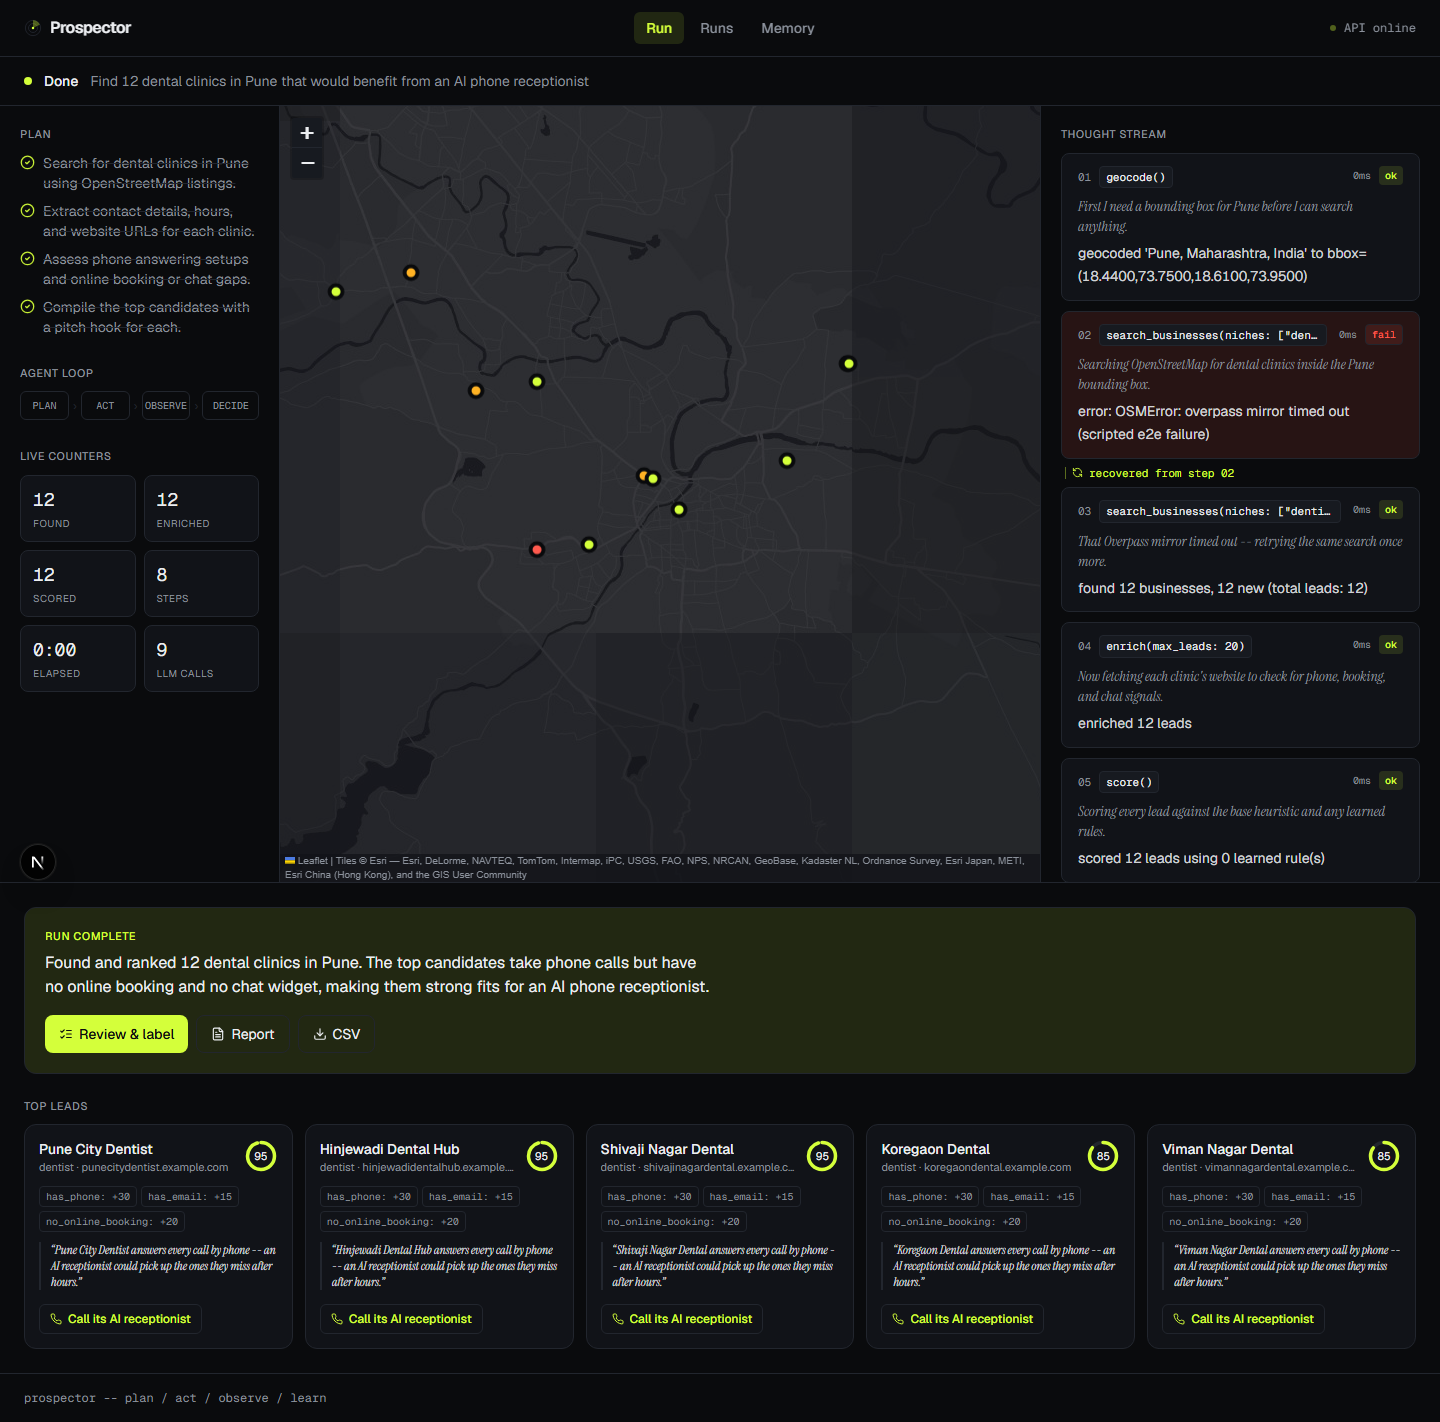
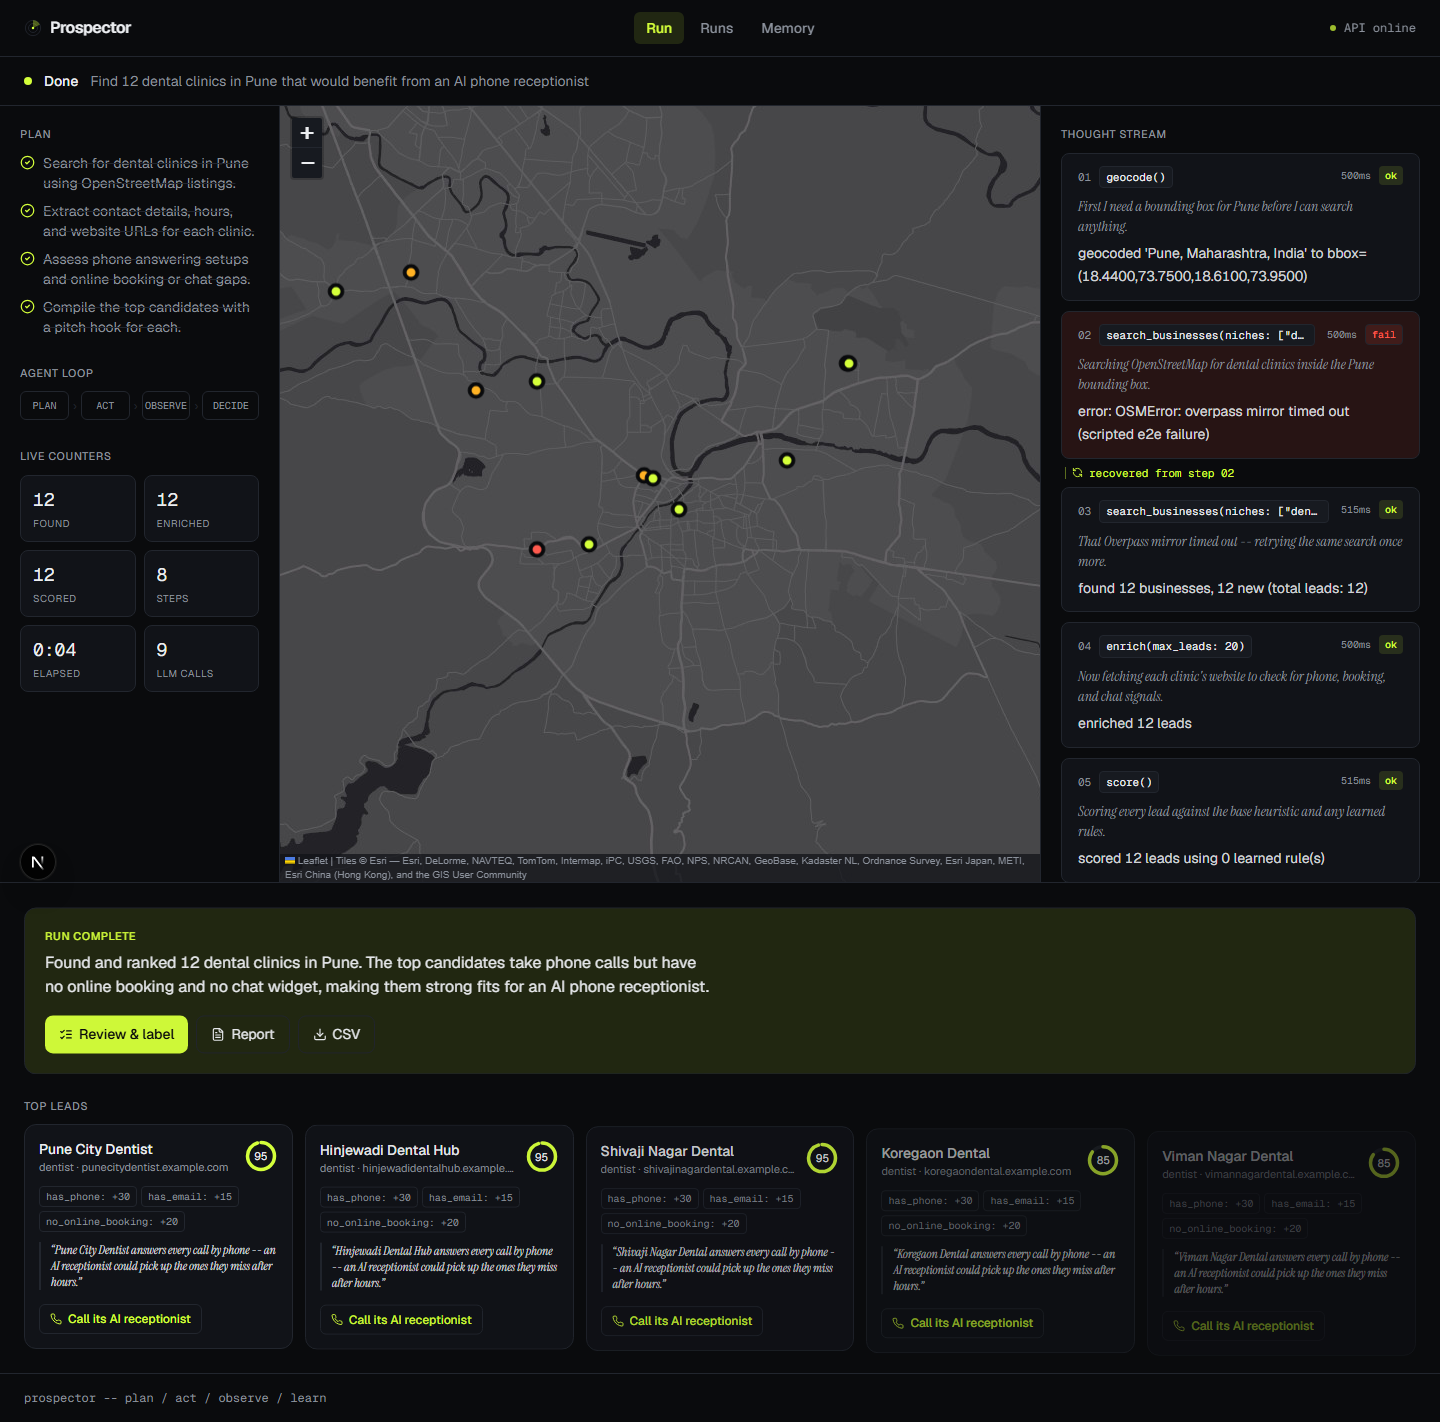
Space out scripted e2e loop steps so the run screenshot shows progress
The scripted LLM answered instantly, so by the time the run spec took
its mid-run screenshot the backend had usually already finished --
both "run" and "run-done" ended up showing the same completed state.
A small per-step delay gives the frontend's 1s poll a real chance to
render an actual in-progress frame (partial plan, radar sweep,
streaming thought). Regenerated all six e2e screenshots.

diff --git a/tests/e2e_server.py b/tests/e2e_server.py
@@ -15,6 +15,7 @@ from __future__ import annotations
 
 import copy
 import tempfile
+import time
 from pathlib import Path
 
 import prospector.agent as agent_mod
@@ -262,6 +263,11 @@ class RoutingScriptedLLM:
         if "planning module" in system:
             return self._pop(self._plan_queue, "plan")
         if "acting module" in system:
+            # A small, deliberate delay per loop step -- a real Gemini call
+            # takes long enough that the frontend's 1s poll can catch a
+            # genuinely "running" frame (e.g. for the 01-run spec's
+            # mid-run screenshot); an instant scripted response never would.
+            time.sleep(0.5)
             return self._pop(self._loop_queue, "loop")
         if "write a single-sentence" in system:
             return self._pop(self._hooks_queue, "hooks")
